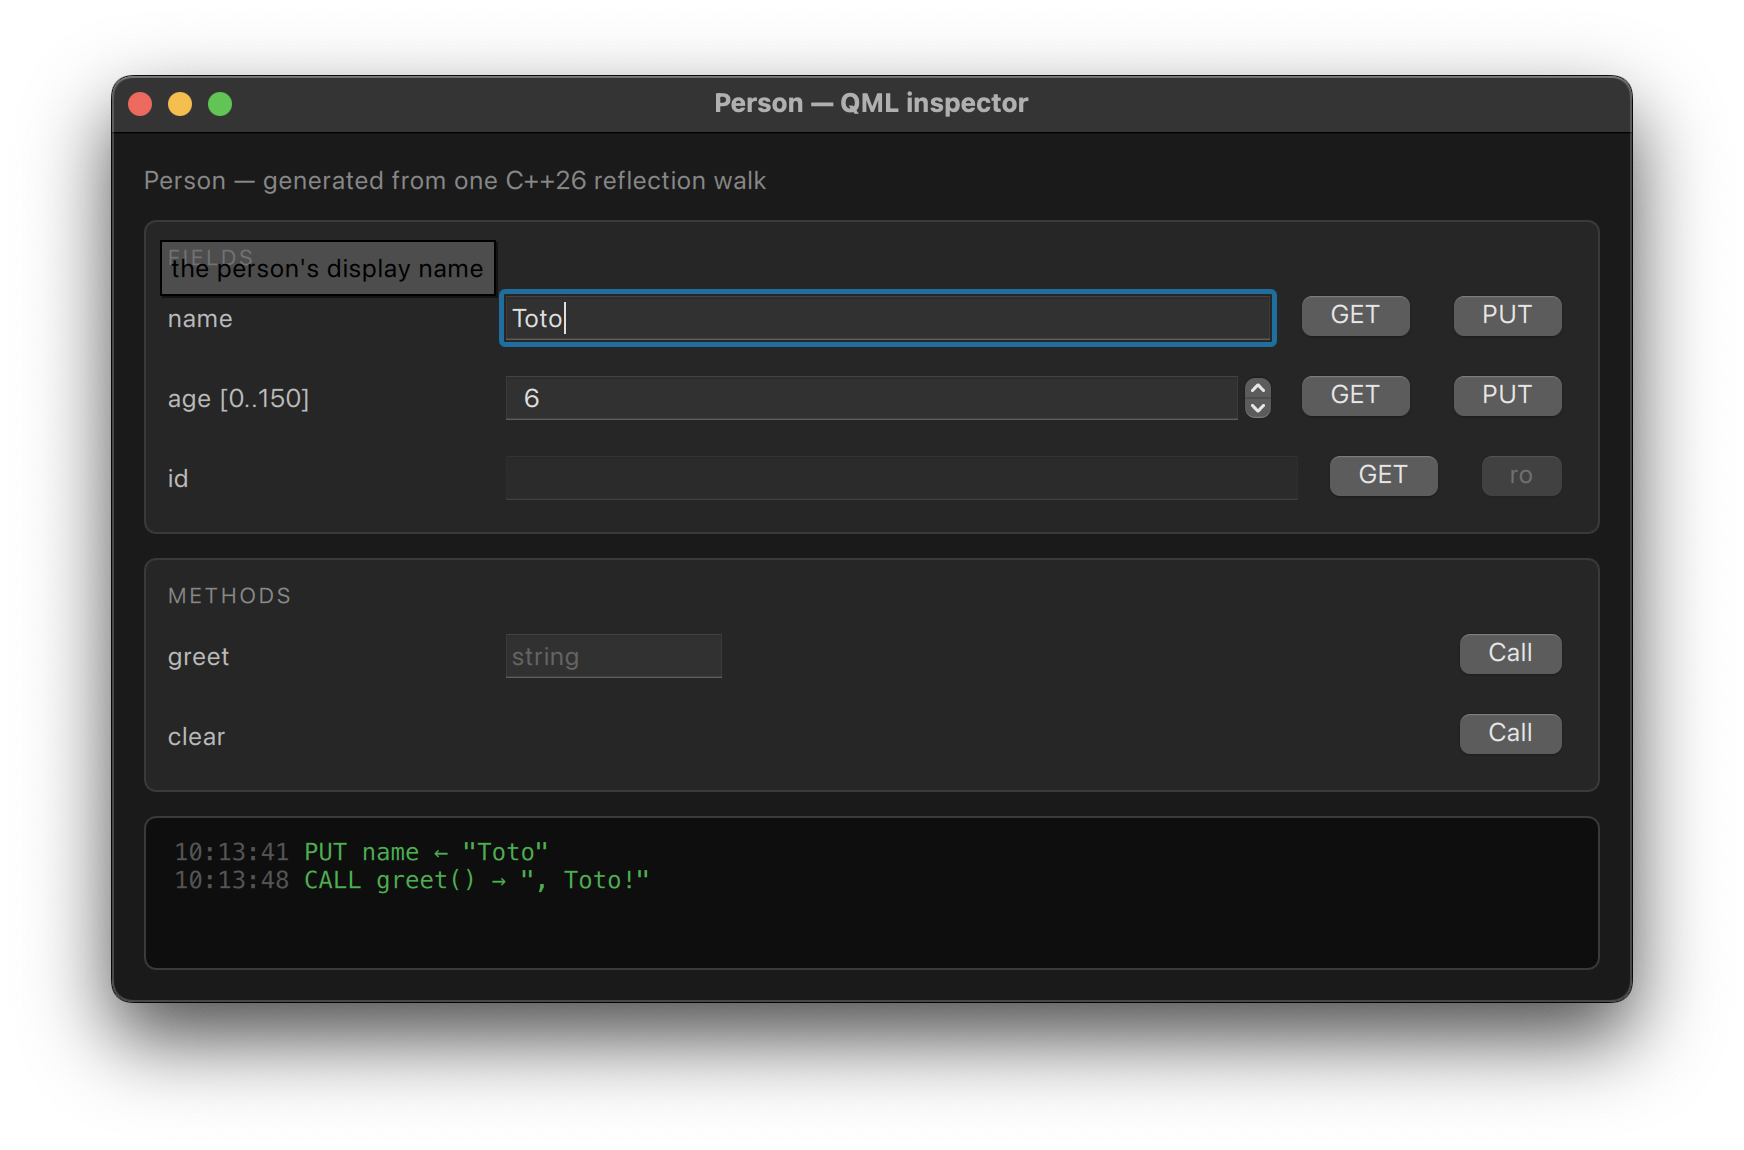
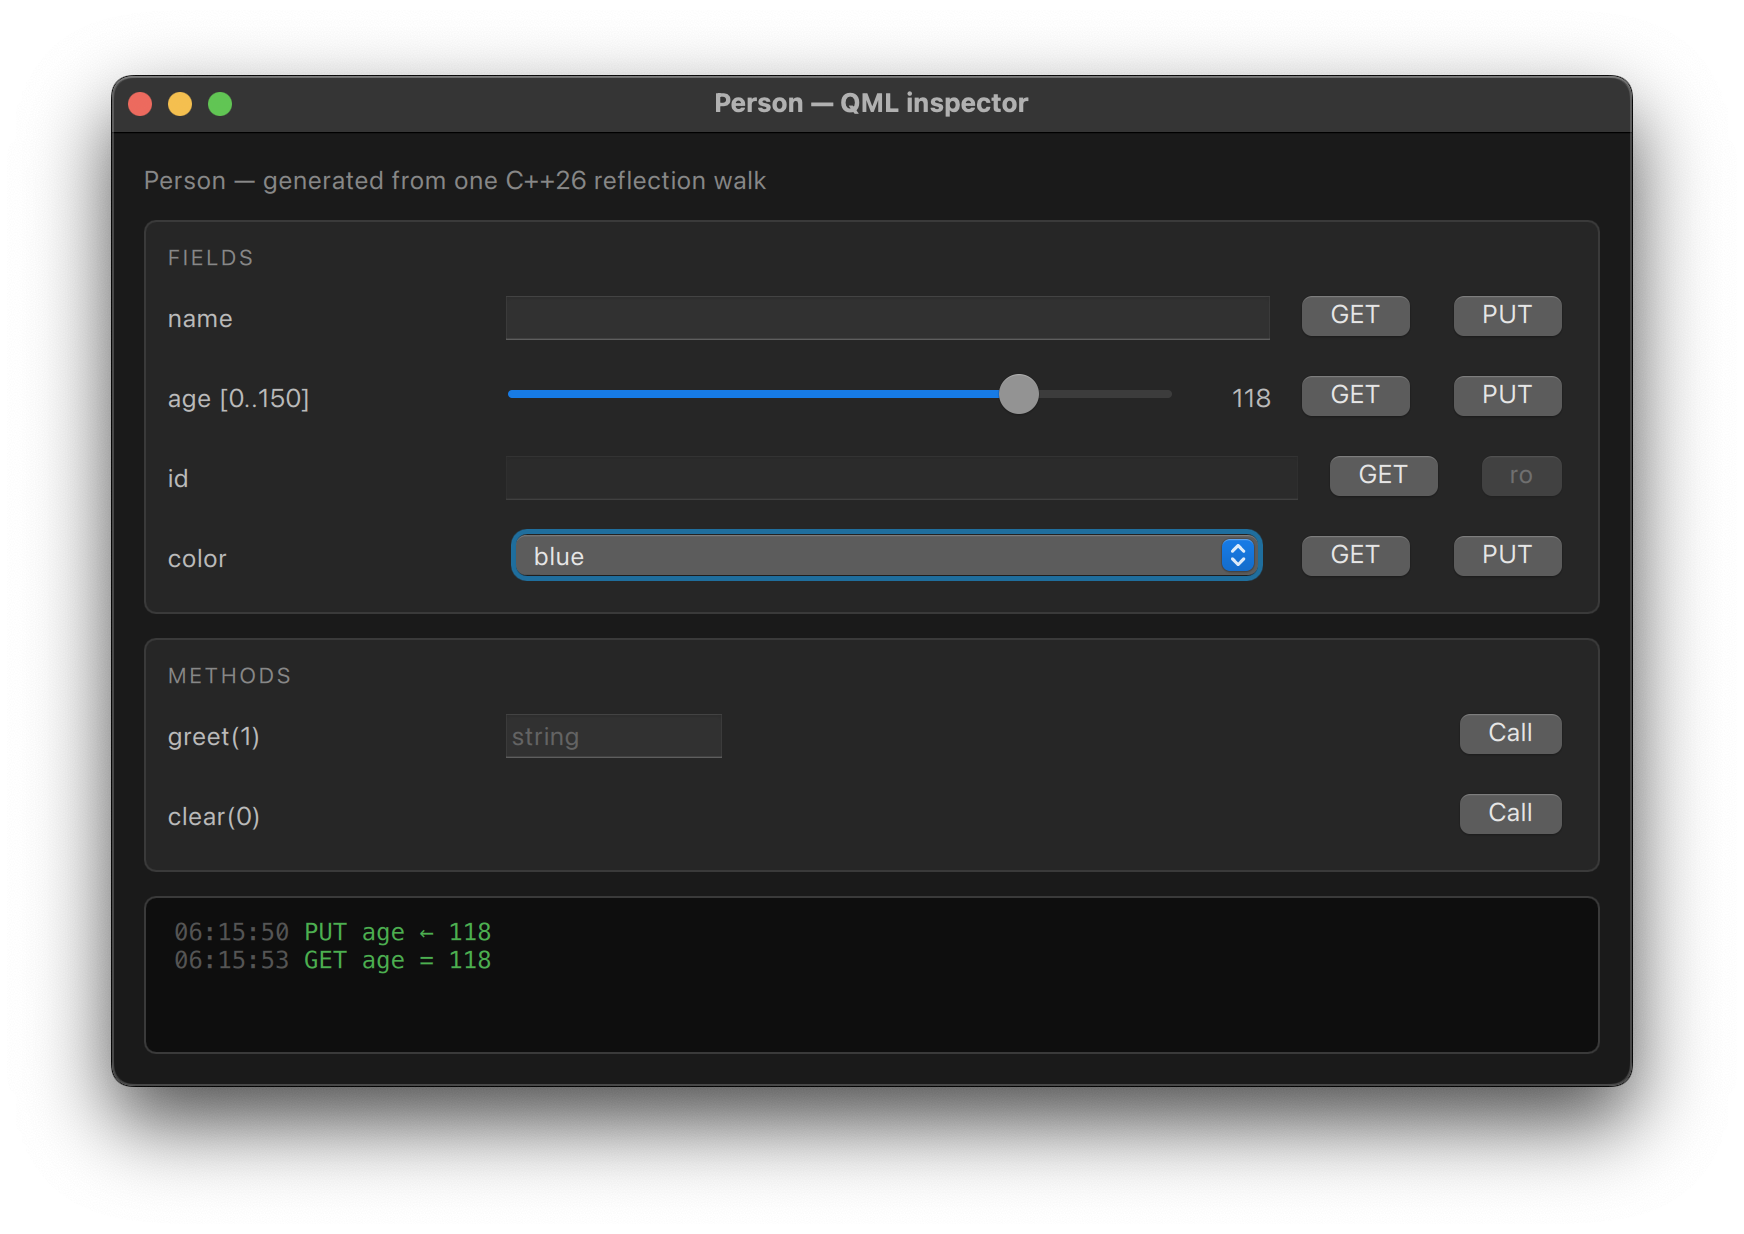
updated presentation

diff --git a/presentation.md b/presentation.md
@@ -439,20 +439,25 @@ One `[[=doc{...}, =range{...}]] double radius;` is **simultaneously**:
 ## QML example
 
 ```cpp
+using namespace rosetta;
+
 struct Person {
-    [[ = rosetta::doc{"the person's display name"} ]]
+    [[ = doc{"the person's display name"} ]]
     std::string name;
 
-    [[ = rosetta::doc{"age in whole years"}, = rosetta::range{0.0, 150.0} ]]
+    [[ = doc{"age in whole years"}, = range{0.0, 150.0}, = widget::slider ]]
     int age = 0;
 
-    [[ = rosetta::doc{"server-assigned identifier"}, = rosetta::readonly{} ]]
+    [[ = doc{"server-assigned identifier"}, = readonly{} ]]
     std::string id;
+
+    [[ = rosetta::doc{"favourite colour"}, = rosetta::combobox{{"red", "green", "blue", "yellow"}} ]]
+    std::string color = "red";
 
     Person() = default;
     Person(std::string n, int a, std::string i): name(std::move(n)), age(a), id(std::move(i)) {}
 
-    [[ = rosetta::doc{"Returns a greeting prefixed by the given salutation."} ]]
+    [[ = doc{"Returns a greeting prefixed by the given salutation."} ]]
     std::string greet(const std::string &salutation) const {
         return salutation + ", " + name + "!";
     }
@@ -492,13 +497,50 @@ engine.rootContext()->setContextProperty("inspector", &reflected);
 
 ---
 
+## Playing with C++26 to recreate the Qt `moc`
+
+Qt's moc is a separate code generator. It parses headers, emits .moc
+files, links them in. It's been a Qt fixture for 25 years.
+
+C++26 reflection makes it… optional.
+
+```cpp
+class Thermostat {
+public:
+    [[= moc::signal]] moc::Signal<double> temperatureChanged;
+
+    [[= moc::property{"temperature", "temperatureChanged"}]]
+    double m_temperature = 20.0;
+};
+```
+
+No .moc file. No build step. Just a header.
+
+---
+
+```cpp
+Thermostat th;
+Display    d;
+
+moc::connect<"temperatureChanged", "showTemperature">(th, d);
+
+moc::set<"temperature">(th, 19.8); // fires temperatureChanged(19.8)
+moc::set<"temperature">(th, 19.8); // equality-gated, silent
+```
+
+Three failure modes, all at compile time:
+- typo'd signal name → static_assert: "no [[=signal]]-tagged member"
+- typo'd slot name → static_assert: "no [[=slot]]-tagged member"
+- mismatched types → template error at the lambda body
+
+---
+
 # References
 
 - [Reflection proposal](https://www.open-std.org/jtc1/sc22/wg21/docs/papers/2025/p2996r13.html)
 - [Python Bindings with Value-Based Reflection](https://www.open-std.org/jtc1/sc22/wg21/docs/papers/2023/p2911r0.pdf)
 - [Using Reflection to Replace a Metalanguage for Generating JS Bindings](https://www.open-std.org/jtc1/sc22/wg21/docs/papers/2023/p3010r0.pdf)
 - [Short video presentation for bindings](https://www.youtube.com/watch?v=TOKP7k66VBw)
-
 
 ---
 